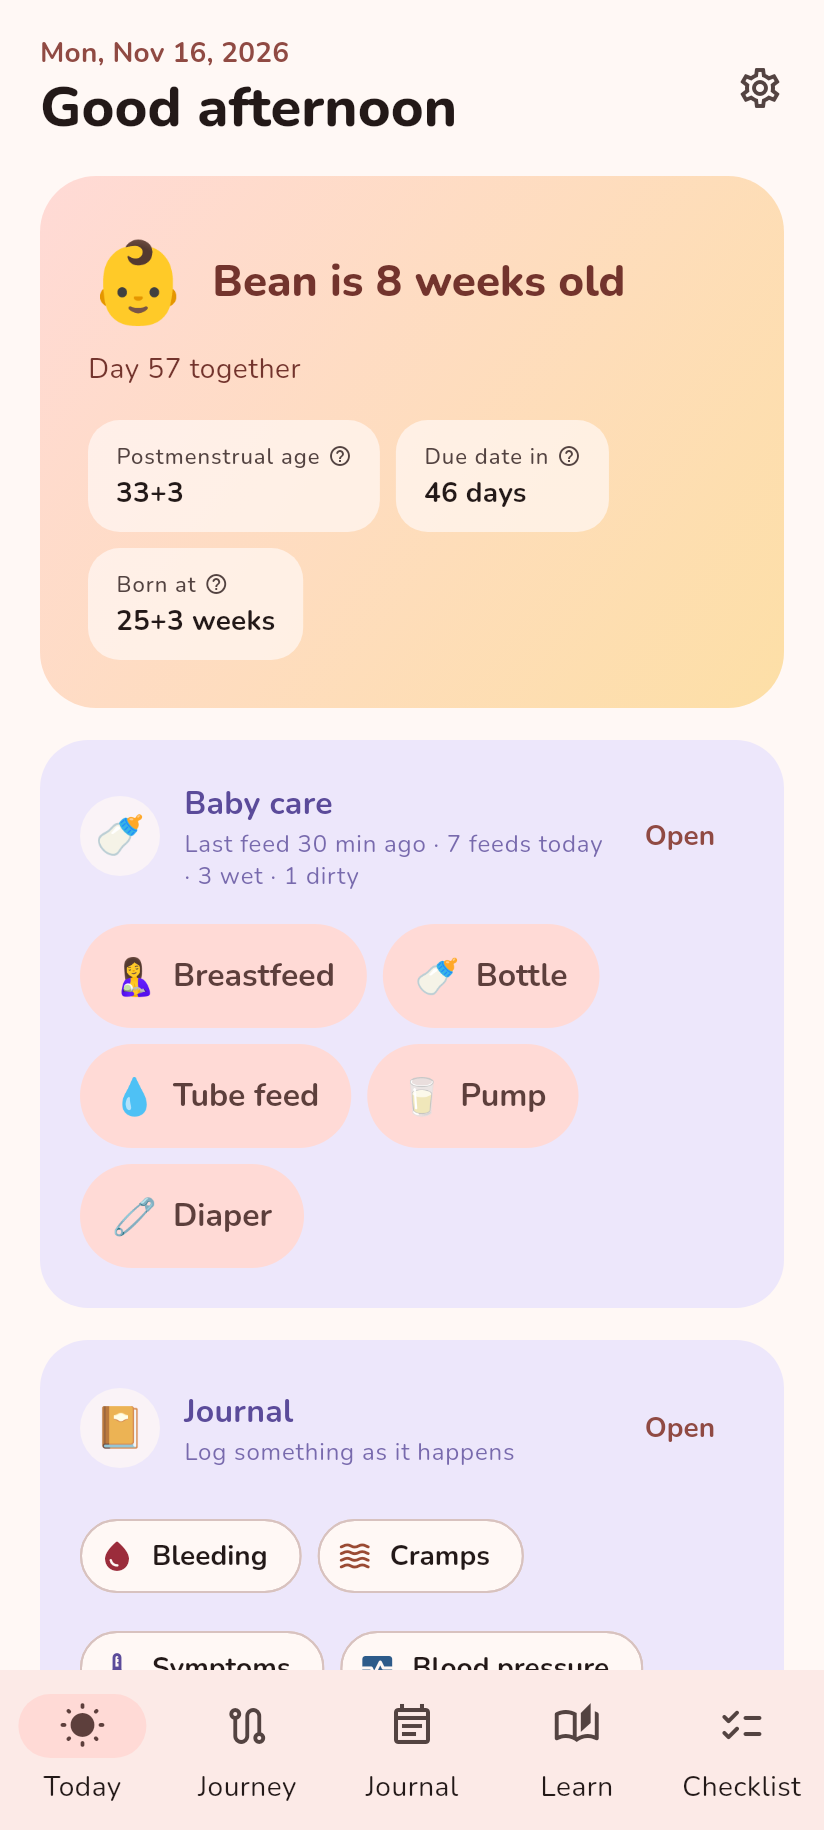
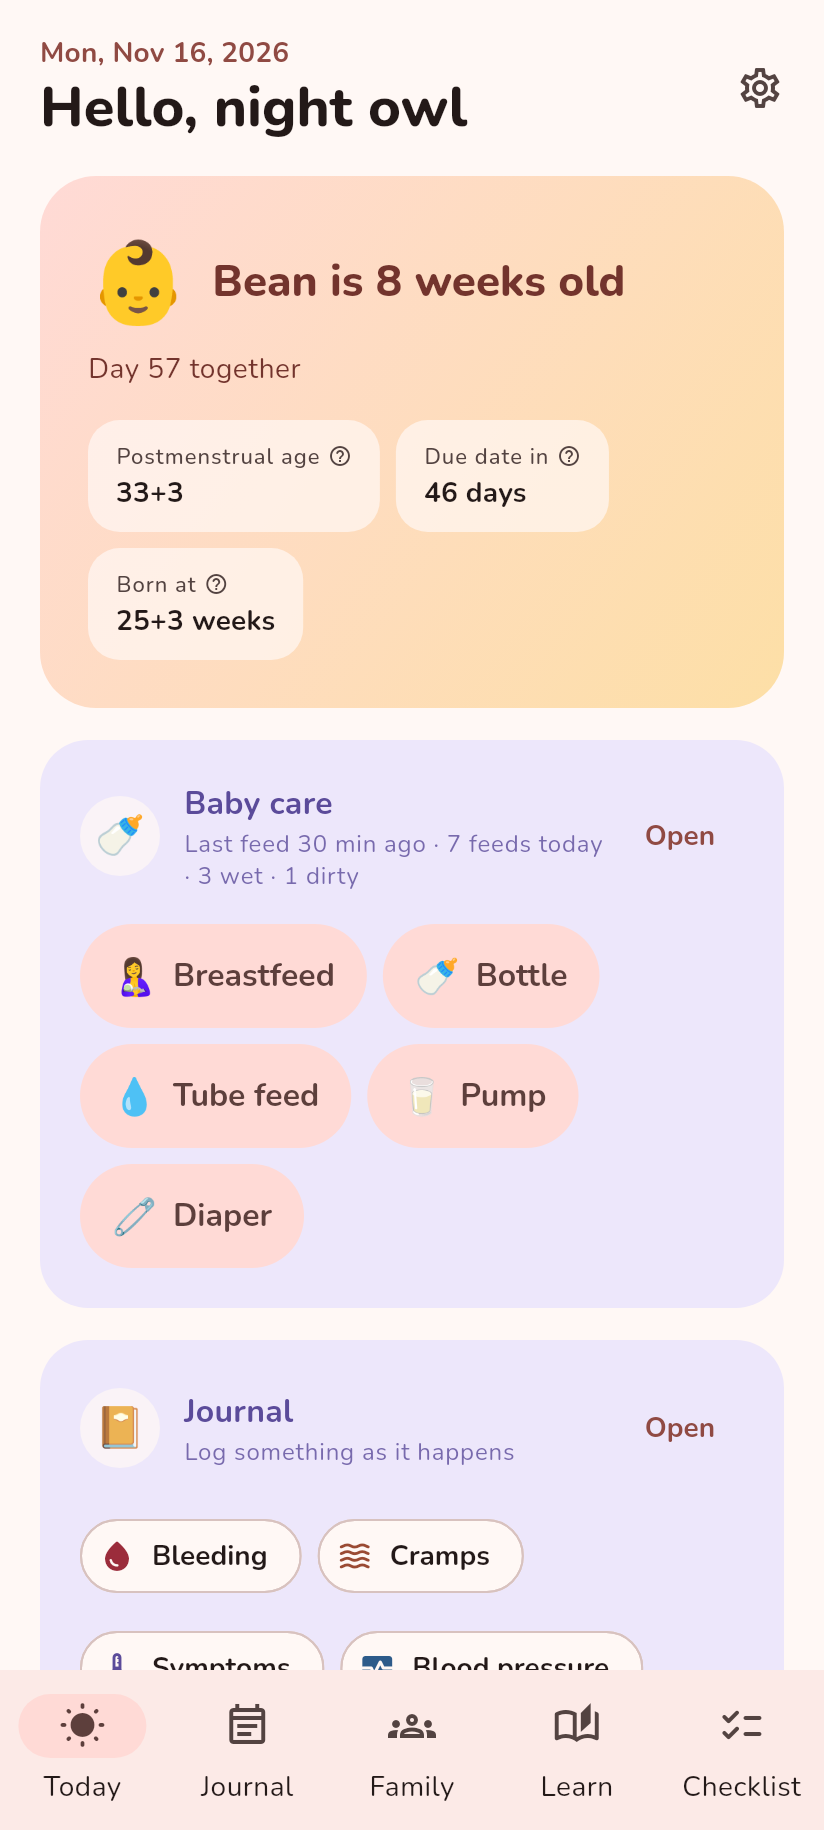
Early Bloom: the Family tab in the gallery and copy
The app's family updates and family feed now share a Family tab (and the
week-by-week journey moved under Learn). The gallery shots that show the
tab bar are regenerated from the app (tool/screenshots/), the feed shot
is now the parents' Family tab, and "Keep Family Posted" names the tab.

Claude-Session: https://claude.ai/code/session_01KWMgQ7sXPWK8vjnxtNr6Rb

Changed region(s): [[0.0607, 0.0311, 0.5765, 0.0934], [0.4551, 0.9344, 0.5461, 0.9967], [0.2427, 0.9344, 0.3641, 0.9967]]

diff --git a/early-bloom.html b/early-bloom.html
@@ -223,7 +223,7 @@
                             <h3 class="font-semibold text-brand-900">Keep Family Posted</h3>
                         </div>
                         <p class="text-brand-500 leading-relaxed text-sm">
-                            Write the day's update once and send it by text or email. Or invite family to a <strong class="text-brand-800">feed of just what you share</strong>, photos included, in the app or any web browser. They get a notification for each update, leave a heart, and see how far along you are.
+                            One <strong class="text-brand-800">Family tab</strong>: write the day's update once and send it by text or email. Or invite family to a <strong class="text-brand-800">feed of just what you share</strong>, photos included, in the app or any web browser. They get a notification for each update, leave a heart, and see how far along you are.
                         </p>
                     </div>
                     <div class="bg-brand-50 rounded-2xl p-7 border border-brand-100 shadow-sm">
@@ -308,8 +308,8 @@
                     <figcaption class="text-xs text-brand-500 mt-3 text-center leading-snug">Growth charts made for babies born early</figcaption>
                 </figure>
                 <figure class="snap-center shrink-0 w-56 md:w-auto">
-                    <img src="early-bloom-shots/feed.png" width="412" height="915" loading="lazy" alt="The family feed: how far along you are, and the news and photos you share" class="w-full h-auto rounded-2xl border border-brand-100 shadow-md bg-white">
-                    <figcaption class="text-xs text-brand-500 mt-3 text-center leading-snug">The family feed: how far along you are, and the news and photos you share</figcaption>
+                    <img src="early-bloom-shots/feed.png" width="412" height="915" loading="lazy" alt="The Family tab: today's update for everyone, then the family feed of how far along you are and the news and photos you share" class="w-full h-auto rounded-2xl border border-brand-100 shadow-md bg-white">
+                    <figcaption class="text-xs text-brand-500 mt-3 text-center leading-snug">The Family tab: today's update, then the family feed</figcaption>
                 </figure>
                 <figure class="snap-center shrink-0 w-56 md:w-auto">
                     <img src="early-bloom-shots/prayer.png" width="412" height="915" loading="lazy" alt="Optional prayers for each part of the journey" class="w-full h-auto rounded-2xl border border-brand-100 shadow-md bg-white">
